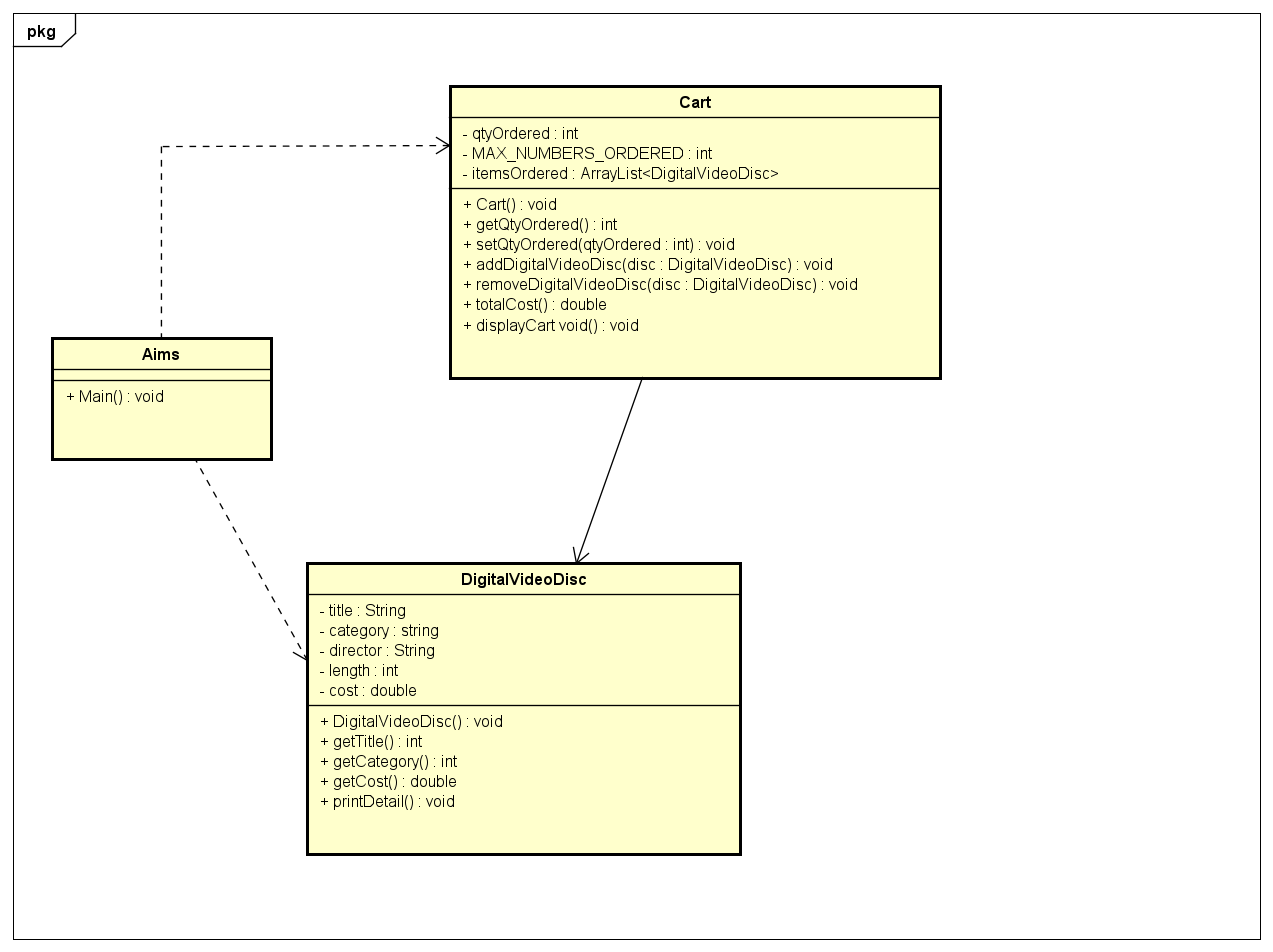
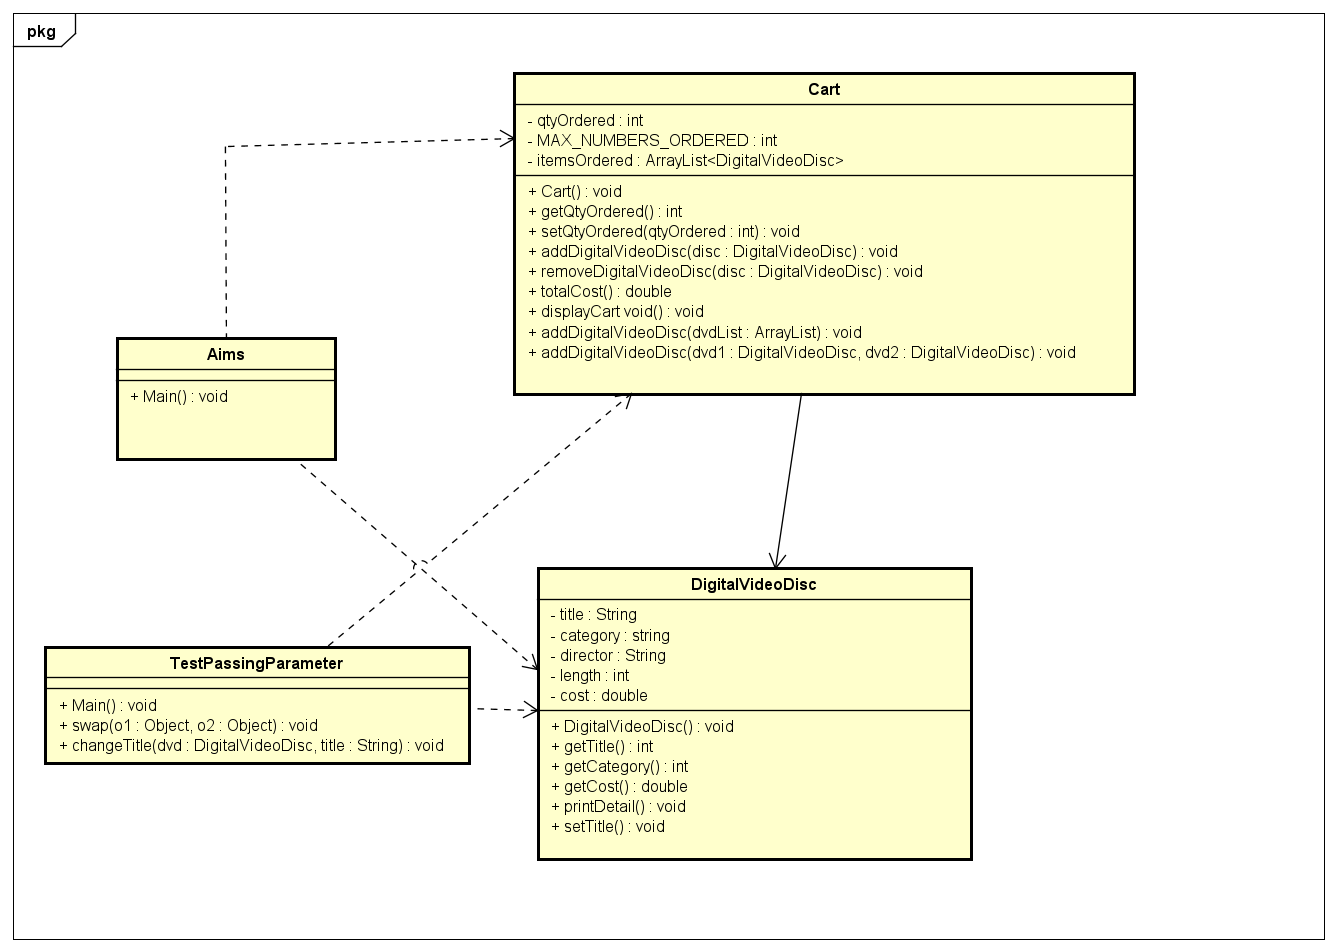
lab03: method overloading

diff --git a/Lab02/AimsProject/src/Aims.java b/Lab02/AimsProject/src/Aims.java
@@ -1,3 +1,5 @@
+import java.sql.Array;
+
 public class Aims {
     public static void main(String[] args) {
         Cart anOrder = new Cart();
@@ -7,34 +9,40 @@ public class Aims {
                 "Gerge Lucas", 87, 24.95f);
         DigitalVideoDisc dvd3 = new DigitalVideoDisc("Aladin", "Animation", 18.89f);
 
-        // Add DVD to cart
+//        // Add DVD to cart
+//        anOrder.addDigitalVideoDisc(dvd1);
+//        anOrder.addDigitalVideoDisc(dvd2);
+//        anOrder.addDigitalVideoDisc(dvd3);
+
+//        // Display cart
+//        System.out.println();
+//        anOrder.displayCart();
+
+//        // Display total cost
+//        System.out.printf("Total Cost: %.2f \n", anOrder.totalCost());
+
+//        //Sort cart by title
+//        anOrder.sortCartByTitle();
+//        System.out.println();
+//        System.out.println("--- Sort cart by title ---");
+//        anOrder.displayCart();
+
+//        //Sort cart by title
+//        anOrder.sortCartByCost();
+//        System.out.println();
+//        System.out.println("--- Sort cart by Cost ---");
+//        anOrder.displayCart();
+
+//        //Remove dist from cart
+//        System.out.println();
+//        System.out.println("-- Remove " + dvd2.getTitle() + "from cart --");
+//        anOrder.removeDigitalVideoDisc(dvd2);
+//        anOrder.displayCart();
+
+        DigitalVideoDisc [] dvdList = {dvd2, dvd3};
         anOrder.addDigitalVideoDisc(dvd1);
-        anOrder.addDigitalVideoDisc(dvd2);
-        anOrder.addDigitalVideoDisc(dvd3);
-
-        // Display cart
-        System.out.println();
+        anOrder.addDigitalVideoDisc(dvdList);
         anOrder.displayCart();
 
-        // Display total cost
-        System.out.printf("Total Cost: %.2f \n", anOrder.totalCost());
-
-        // Sort cart by title
-        anOrder.sortCartByTitle();
-        System.out.println();
-        System.out.println("--- Sort cart by title ---");
-        anOrder.displayCart();
-
-        // Sort cart by title
-        anOrder.sortCartByCost();
-        System.out.println();
-        System.out.println("--- Sort cart by Cost ---");
-        anOrder.displayCart();
-
-        // Remove dist from cart
-        System.out.println();
-        System.out.println("-- Remove " + dvd2.getTitle() + "from cart --");
-        anOrder.removeDigitalVideoDisc(dvd2);
-        anOrder.displayCart();
     }
 }

diff --git a/Lab02/AimsProject/src/Cart.java b/Lab02/AimsProject/src/Cart.java
@@ -1,5 +1,4 @@
 import java.util.ArrayList;
-import java.util.Collection;
 import java.util.Collections;
 import java.util.Comparator;
 
@@ -94,5 +93,35 @@ public class Cart {
         });
     }
 
+    public boolean addDigitalVideoDisc(DigitalVideoDisc [] dvdList){
+        for (int i = 0; i < dvdList.length; i++){
+            if (qtyOrdered <= MAX_NUMBERS_ORDERED){
+                itemsOrdered.add(dvdList[i]);
+                qtyOrdered++;
+            } else {
+                System.out.println("The cart is almost full");
+                return false;
+            }
+        }
+        System.out.println("Add DVD into cart successfully!");
+        return true;
+    }
 
+    public boolean addDigitalVideoDisc(DigitalVideoDisc dvd1,DigitalVideoDisc dvd2){
+        if(qtyOrdered <= MAX_NUMBERS_ORDERED){
+            itemsOrdered.add(dvd1);
+            qtyOrdered++;
+            if(qtyOrdered <= MAX_NUMBERS_ORDERED){
+                itemsOrdered.add(dvd2);
+                qtyOrdered++;
+                System.out.println("Add DVD into cart successfully!");
+                return true;
+            } else {
+                System.out.println("The cart is almost full");
+                return false;
+            }
+        } else {
+            return false;
+        }
+    }
 }

diff --git a/Lab02/AimsProject/src/DigitalVideoDisc.java b/Lab02/AimsProject/src/DigitalVideoDisc.java
@@ -48,6 +48,27 @@ public class DigitalVideoDisc {
     public double getCost() {
         return cost;
     }
+
+    public void setTitle(String title) {
+        this.title = title;
+    }
+
+    public void setCategory(String category) {
+        this.category = category;
+    }
+
+    public void setDirector(String director) {
+        this.director = director;
+    }
+
+    public void setLength(int length) {
+        this.length = length;
+    }
+
+    public void setCost(double cost) {
+        this.cost = cost;
+    }
+
     public void printDetail(){
         System.out.println("------ DigitalVideoDisc Detail ------");
         System.out.println(title + " " + " " + category + " " + director + " " + length + " " + cost);
